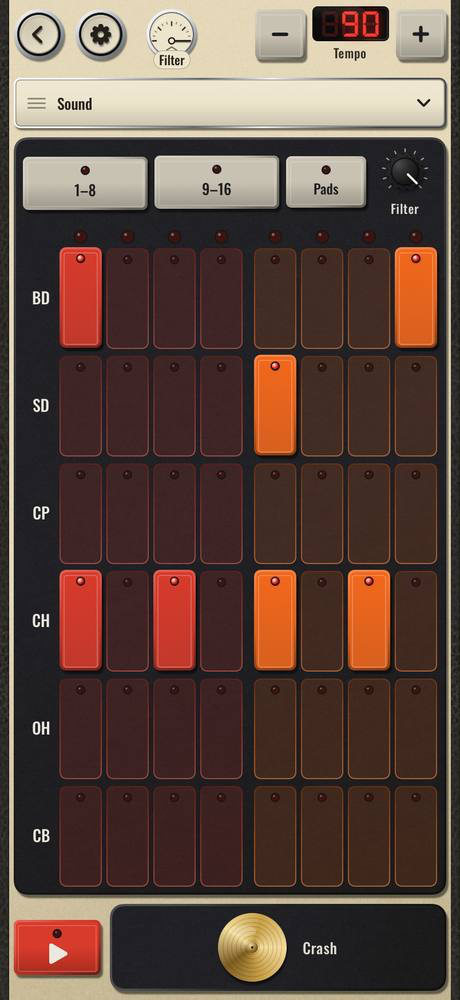
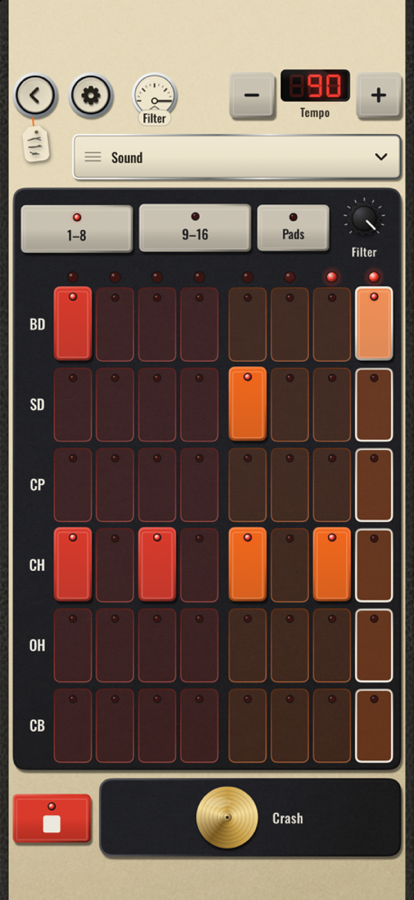
Press kits: 16 apps, winter 2026-27 nominations

diff --git a/halloweenporch/index.html b/halloweenporch/index.html
@@ -1,1 +1,79 @@
-<!doctype html><html lang="en"><head><meta charset="utf-8"><meta name="viewport" content="width=device-width, initial-scale=1"><title>Halloween Porch: Haunt Map press kit</title></head><body style="font:16px/1.5 -apple-system,system-ui,sans-serif;max-width:720px;margin:48px auto;padding:0 16px"><h1>Halloween Porch: Haunt Map</h1><p>Press kit being prepared. <a href="https://apps.apple.com/app/id6821116172">App Store page</a>.</p></body></html>
+<!doctype html>
+<html lang="en">
+<head>
+<meta charset="utf-8">
+<meta name="viewport" content="width=device-width, initial-scale=1">
+<title>Halloween Porch: Haunt Map press kit</title>
+<meta name="description" content="Halloween Porch: Haunt Map: screenshots, facts and dates for App Store editorial.">
+<style>
+  :root { --bg:#fff; --fg:#1d1d1f; --muted:#6e6e73; --line:#e5e5ea; --accent:#0a66c2; }
+  @media (prefers-color-scheme: dark) { :root { --bg:#111; --fg:#f5f5f7; --muted:#a1a1a6; --line:#2c2c2e; --accent:#64a9f0; } }
+  * { box-sizing:border-box; }
+  body { margin:0; background:var(--bg); color:var(--fg); font:16px/1.5 -apple-system, "SF Pro Text", system-ui, sans-serif; padding:32px 16px 64px; }
+  main { max-width:960px; margin:0 auto; }
+  header { display:flex; gap:20px; align-items:center; margin-bottom:28px; }
+  header img { width:96px; height:96px; border-radius:22px; }
+  h1 { font-size:28px; margin:0 0 4px; }
+  h2 { font-size:18px; margin:36px 0 12px; }
+  p, li { max-width:70ch; }
+  .muted { color:var(--muted); }
+  dl { display:grid; grid-template-columns:max-content 1fr; gap:6px 18px; margin:0; }
+  dt { color:var(--muted); }
+  .shots { display:grid; grid-template-columns:repeat(auto-fill, minmax(180px, 1fr)); gap:14px; }
+  figure { margin:0; }
+  figure img { width:100%; height:auto; border:1px solid var(--line); border-radius:12px; display:block; }
+  figcaption { font-size:13px; color:var(--muted); margin-top:6px; }
+  a { color:var(--accent); }
+  ul { padding-left:20px; }
+  footer { margin-top:48px; font-size:13px; color:var(--muted); }
+</style>
+</head>
+<body>
+<main>
+  <header>
+    <img src="img/icon.png" alt="Halloween Porch: Haunt Map app icon">
+    <div>
+      <h1>Halloween Porch: Haunt Map</h1>
+      <p class="muted">AR ghosts for trick or treat · <a href="https://apps.apple.com/app/id6821116172">App Store</a> · updated 17 October 2026</p>
+    </div>
+  </header>
+
+  <h2>What is new</h2>
+  <p>Version 1.0 is Waiting for Review as of 17 October 2026, so the App Store link returns 404 until release. The app is a map of the lit porches on one street: hosts plot a porch, place up to 4 AR scares, pick a riddle or bat hunt and set a secret treat word; visitors follow a compass and a heartbeat haptic to the steps and earn a stamp. Porch pins are deleted after 2 November.</p>
+
+  <h2>Facts</h2>
+  <dl>
+    <dt>Version</dt><dd>1.0 (build 2), built with Xcode 27.0</dd>
+    <dt>Platforms</dt><dd>iPhone, iPad</dd>
+    <dt>Languages</dt><dd>5: English (US, UK, AU, CA) and Spanish (Mexico)</dd>
+    <dt>Price</dt><dd>Free, no ads</dd>
+    <dt>Privacy</dt><dd>No tracking, no third-party SDK. Visiting needs no account; hosting needs iCloud. Stamps are stored on the phone. Porch pins are visible only to people with the community code and are deleted after 2 November.</dd>
+    <dt>Accessibility</dt><dd>Reduce Motion skips the torch flicker and the jump scare; the map legend does not rely on colour alone and hides at accessibility text sizes; VoiceOver labels and Dynamic Type are used across the screens.</dd>
+    <dt>Window</dt><dd>Halloween, 22 October to 1 November 2026</dd>
+    <dt>Developer</dt><dd>One developer in Dubai</dd>
+  </dl>
+
+  <h2>Screens</h2>
+  <p class="muted">Simulator captures of the screens described in the nomination, on the app's sample street (Hollow Lane, join code HAUNT7). The AR view is a simulator stand-in: the camera scene and the ghost are drawn in software, not a camera feed. No marketing frames.</p>
+  <div class="shots">
+    <figure><img src="img/01.png" alt="Map of Hollow Lane with porch pins and a list of five lit porches, each with its distance and scare level"><figcaption>The visitor map on the sample street: five lit porches with distance and scare level (Little pumpkins) shown before anyone walks. Simulator capture, simulated location.</figcaption></figure>
+    <figure><img src="img/02.png" alt="Tonight screen with three porch light choices, On, Low on candy and Off, a stamp counter and a Siri suggestion"><figcaption>Host's Tonight screen: porch light On, Low on candy or Off, stamps given tonight, and the Siri phrase. Simulator capture; the sample porch is set to Off here.</figcaption></figure>
+    <figure><img src="img/03.png" alt="Walk screen showing 15 m to The Hollow Pumpkin, a compass arrow and an I'm at the steps button"><figcaption>Walk screen: distance, compass arrow and the I'm at the steps button. The heartbeat haptic cannot be shown in a still. Simulator capture.</figcaption></figure>
+    <figure><img src="img/04.png" alt="Riddle trick at the porch steps: a ghost in front of a door with four answers, A clock, A scarecrow, A pumpkin, A mummy"><figcaption>The riddle at the steps, four answers. Simulator stand-in for the AR scene; the real view is a live camera with the ghost placed on the host's steps.</figcaption></figure>
+    <figure><img src="img/05.png" alt="Stamp earned screen: stamp number 14, the porch name and the secret word to say at the door, Pumpkin pie"><figcaption>Stamp screen after the trick: the host's secret treat word to say at the door. Sample data. Simulator capture.</figcaption></figure>
+  </div>
+
+  <h2>Why now</h2>
+  <ul>
+    <li><a href="https://www.gurneeil.gov/explore/trick-or-treat.php">Village of Gurnee, Illinois: trick-or-treat Saturday 31 October 2026, 2 to 5pm</a> <span class="muted">Municipal page, read 17 Oct 2026</span></li>
+  </ul>
+
+  <h2>Assets</h2>
+  <ul>
+    <li><a href="img/icon-1024.png">Icon, 1024 px PNG</a></li>
+  </ul>
+
+  <footer>Contact: hemal08ce094@gmail.com · <a href="../">Support and privacy</a></footer>
+</main>
+</body>
+</html>

diff --git a/sideb/index.html b/sideb/index.html
@@ -1,1 +1,79 @@
-<!doctype html><html lang="en"><head><meta charset="utf-8"><meta name="viewport" content="width=device-width, initial-scale=1"><title>Side B: Retro Fold & Play press kit</title></head><body style="font:16px/1.5 -apple-system,system-ui,sans-serif;max-width:720px;margin:48px auto;padding:0 16px"><h1>Side B: Retro Fold & Play</h1><p>Press kit being prepared. <a href="https://apps.apple.com/app/id6818051955">App Store page</a>.</p></body></html>
+<!doctype html>
+<html lang="en">
+<head>
+<meta charset="utf-8">
+<meta name="viewport" content="width=device-width, initial-scale=1">
+<title>Side B: Retro Fold &amp; Play press kit</title>
+<meta name="description" content="Side B: Retro Fold &amp; Play: screenshots, facts and dates for App Store editorial.">
+<style>
+  :root { --bg:#fff; --fg:#1d1d1f; --muted:#6e6e73; --line:#e5e5ea; --accent:#0a66c2; }
+  @media (prefers-color-scheme: dark) { :root { --bg:#111; --fg:#f5f5f7; --muted:#a1a1a6; --line:#2c2c2e; --accent:#64a9f0; } }
+  * { box-sizing:border-box; }
+  body { margin:0; background:var(--bg); color:var(--fg); font:16px/1.5 -apple-system, "SF Pro Text", system-ui, sans-serif; padding:32px 16px 64px; }
+  main { max-width:960px; margin:0 auto; }
+  header { display:flex; gap:20px; align-items:center; margin-bottom:28px; }
+  header img { width:96px; height:96px; border-radius:22px; }
+  h1 { font-size:28px; margin:0 0 4px; }
+  h2 { font-size:18px; margin:36px 0 12px; }
+  p, li { max-width:70ch; }
+  .muted { color:var(--muted); }
+  dl { display:grid; grid-template-columns:max-content 1fr; gap:6px 18px; margin:0; }
+  dt { color:var(--muted); }
+  .shots { display:grid; grid-template-columns:repeat(auto-fill, minmax(180px, 1fr)); gap:14px; }
+  figure { margin:0; }
+  figure img { width:100%; height:auto; border:1px solid var(--line); border-radius:12px; display:block; }
+  figcaption { font-size:13px; color:var(--muted); margin-top:6px; }
+  a { color:var(--accent); }
+  ul { padding-left:20px; }
+  footer { margin-top:48px; font-size:13px; color:var(--muted); }
+</style>
+</head>
+<body>
+<main>
+  <header>
+    <img src="img/icon.png" alt="Side B: Retro Fold &amp; Play app icon">
+    <div>
+      <h1>Side B: Retro Fold &amp; Play</h1>
+      <p class="muted">Vinyl, 80s, Mixtape, Equalizer · <a href="https://apps.apple.com/app/id6818051955">App Store</a> · updated 17 October 2026</p>
+    </div>
+  </header>
+
+  <h2>What is new</h2>
+  <p>Version 1.0 is Waiting for Review as of 17 October 2026 after an earlier submission was rejected in October, so the App Store link returns 404 until approval. This page covers the pocket player, the tape shelf and the tape editor. Apple Music tapes need a subscription; the demo tape and your own audio files do not.</p>
+
+  <h2>Facts</h2>
+  <dl>
+    <dt>Version</dt><dd>1.0 (build 2026100702), built with Xcode 27.0</dd>
+    <dt>Platforms</dt><dd>iPhone, iPad</dd>
+    <dt>Languages</dt><dd>39 store languages, including English (US, UK, AU, CA), Spanish (Spain, Mexico), French (France, Canada), German, Japanese, Korean, Arabic, Hebrew and Hindi</dd>
+    <dt>Price</dt><dd>Free, no ads</dd>
+    <dt>Privacy</dt><dd>No account, no tracking. Tapes are stored on the phone only. Apple Music playback goes through MusicKit and needs a subscription.</dd>
+    <dt>Accessibility</dt><dd>Shell colour swatches carry names and a selected state for VoiceOver; Reduce Motion is handled; 84 accessibility labels in the code.</dd>
+    <dt>Window</dt><dd>Christmas draft 11 December 2026 to 1 January 2027; year-end draft 26 December 2026 to 10 January 2027</dd>
+    <dt>Developer</dt><dd>One developer in the UAE</dd>
+  </dl>
+
+  <h2>Screens</h2>
+  <p class="muted">Simulator captures of the screens described in the nominations, run with an ordinary-iPhone layout and no Apple Music account. The built-in demo tape (four instrumentals made on the device) is loaded; the other tapes on the shelf and in the second editor frame are sample tapes made from the same demo songs by a debug launch argument. No marketing frames.</p>
+  <div class="shots">
+    <figure><img src="img/01.png" alt="Pocket player on an iPhone: an upright demo tape in the door, a play, fast forward, rewind and eject key strip and a small display reading track 006, side A"><figcaption>The pocket player, the first screen on an ordinary iPhone, with the demo tape loaded and the key strip: play, FF, Rew, Eject. Simulator capture.</figcaption></figure>
+    <figure><img src="img/02.png" alt="Tape shelf sheet with four cassettes: the demo tape, Summer '86, Night drive and Saturday mix, each with its length and track count"><figcaption>The tape shelf: the demo tape plus three sample tapes, each with its cassette length and track count. Simulator capture, sample tapes.</figcaption></figure>
+    <figure><img src="img/03.png" alt="Tape editor with a red cassette titled Summer '86, a subtitle field, a Suggest a title row and shell colour swatches"><figcaption>The tape editor: title, subtitle, Suggest a title, shell colours and label art. Sample tape. Simulator capture.</figcaption></figure>
+    <figure><img src="img/04.png" alt="Tape editor on the demo tape with a smoke shell selected and no label art"><figcaption>The same editor on the demo tape, smoke shell, no label art. Simulator capture.</figcaption></figure>
+  </div>
+
+  <h2>Why now</h2>
+  <ul>
+    <li><a href="https://www.officialcharts.com/chart-news/best-selling-cassettes-singles-albums-2025">UK cassette sales were 164,000 units in 2025, up 53% on 2024</a> <span class="muted">The Official Charts Company, 7 Jan 2026</span></li>
+    <li><a href="https://www.opm.gov/policy-data-oversight/pay-leave/federal-holidays/">New Year's Day 2027 is Friday, 1 January 2027</a> <span class="muted">US Office of Personnel Management, read 17 Oct 2026</span></li>
+  </ul>
+
+  <h2>Assets</h2>
+  <ul>
+    <li><a href="img/icon-1024.png">Icon, 1024 px PNG</a></li>
+  </ul>
+
+  <footer>Contact: hemal08ce094@gmail.com · <a href="../">Support and privacy</a></footer>
+</main>
+</body>
+</html>

diff --git a/mygratuity/index.html b/mygratuity/index.html
@@ -1,1 +1,73 @@
-<!doctype html><html lang="en"><head><meta charset="utf-8"><meta name="viewport" content="width=device-width, initial-scale=1"><title>Dubai Gratuity Calculator press kit</title></head><body style="font:16px/1.5 -apple-system,system-ui,sans-serif;max-width:720px;margin:48px auto;padding:0 16px"><h1>Dubai Gratuity Calculator</h1><p>Press kit being prepared. <a href="https://apps.apple.com/app/id1598788269">App Store page</a>.</p></body></html>
+<!doctype html>
+<html lang="en">
+<head>
+<meta charset="utf-8">
+<meta name="viewport" content="width=device-width, initial-scale=1">
+<title>Dubai Gratuity Calculator press kit</title>
+<meta name="description" content="Dubai Gratuity Calculator: screenshots, facts and dates for App Store editorial.">
+<style>
+  :root { --bg:#fff; --fg:#1d1d1f; --muted:#6e6e73; --line:#e5e5ea; --accent:#0a66c2; }
+  @media (prefers-color-scheme: dark) { :root { --bg:#111; --fg:#f5f5f7; --muted:#a1a1a6; --line:#2c2c2e; --accent:#64a9f0; } }
+  * { box-sizing:border-box; }
+  body { margin:0; background:var(--bg); color:var(--fg); font:16px/1.5 -apple-system, "SF Pro Text", system-ui, sans-serif; padding:32px 16px 64px; }
+  main { max-width:960px; margin:0 auto; }
+  header { display:flex; gap:20px; align-items:center; margin-bottom:28px; }
+  header img { width:96px; height:96px; border-radius:22px; }
+  h1 { font-size:28px; margin:0 0 4px; }
+  h2 { font-size:18px; margin:36px 0 12px; }
+  p, li { max-width:70ch; }
+  .muted { color:var(--muted); }
+  dl { display:grid; grid-template-columns:max-content 1fr; gap:6px 18px; margin:0; }
+  dt { color:var(--muted); }
+  .shots { display:grid; grid-template-columns:repeat(auto-fill, minmax(180px, 1fr)); gap:14px; }
+  figure { margin:0; }
+  figure img { width:100%; height:auto; border:1px solid var(--line); border-radius:12px; display:block; }
+  figcaption { font-size:13px; color:var(--muted); margin-top:6px; }
+  a { color:var(--accent); }
+  ul { padding-left:20px; }
+  footer { margin-top:48px; font-size:13px; color:var(--muted); }
+</style>
+</head>
+<body>
+<main>
+  <header>
+    <img src="img/icon.png" alt="Dubai Gratuity Calculator app icon">
+    <div>
+      <h1>Dubai Gratuity Calculator</h1>
+      <p class="muted">End of service gratuity under UAE Decree-Law 33 of 2021 · <a href="https://apps.apple.com/app/id1598788269">App Store</a> · updated 17 October 2026</p>
+    </div>
+  </header>
+
+  <h2>What is new</h2>
+  <p>Refreshed App Store listing with new screenshots and rewritten text, built with Xcode 27.1, on top of the iPhone Duo tabletop and book layouts added earlier. The calculator takes a start date, a last working day, a basic monthly salary in AED and unpaid leave days, and shows the estimate with the 21-day tier for the first five years and the 30-day tier after. A How It Works screen explains eligibility, the two-year cap and Article 51. Nominations are submitted for 28 October 2026 to 12 February 2027.</p>
+
+  <h2>Facts</h2>
+  <dl>
+    <dt>Version</dt><dd>2.3.1 (build 2026101402 (live); 2.4 is waiting for review), built with Xcode 27.1</dd>
+    <dt>Platforms</dt><dd>iPhone, iPad, iPhone Duo, Mac (Mac version 1.1)</dd>
+    <dt>Languages</dt><dd>English (US, UK, Australia, Canada), Spanish, Spanish (Mexico)</dd>
+    <dt>Privacy</dt><dd>Salary and dates are entered in the app and used for the calculation on the device.</dd>
+    <dt>Accessibility</dt><dd>VoiceOver labels on the info, copy and share buttons; Reduce Motion respected on iPhone Duo layouts. Dynamic Type not audited.</dd>
+    <dt>Window</dt><dd>Windows run between 28 October 2026 and 12 February 2027 across the submitted nominations.</dd>
+    <dt>Developer</dt><dd>Hemal Modi</dd>
+  </dl>
+
+  <h2>Screens</h2>
+  <p class="muted">Device captures of the screens described in the nomination. No marketing frames.</p>
+  <div class="shots">
+    <figure><img src="img/01.png" alt="Calculator with a basic salary of AED 18,500, a start date of 15 March 2020 and a last working day of 31 October 2026, showing an estimate of AED 93,657.42 and the breakdown."><figcaption>Calculator with a worked example: AED 18,500 basic salary, 15 Mar 2020 to 31 Oct 2026. Estimate, 21-day and 30-day tiers in the breakdown. Simulator capture, iPhone 17 Pro, light mode.</figcaption></figure>
+    <figure><img src="img/02.png" alt="How It Works sheet in light mode with the Pro unlock row, then Who is eligible, How it is calculated and The two-year cap."><figcaption>How It Works: eligibility, the 21-day and 30-day rule, the daily wage formula and the two-year cap. Simulator capture, light mode. The Pro Unlock row at the top comes from the 2.4 code on the main branch and is not in live 2.3.</figcaption></figure>
+    <figure><img src="img/03.png" alt="The same worked example in dark mode."><figcaption>The same worked example in dark mode. Simulator capture. Taken from the 2.4 branch with Pro forced on by a debug launch argument, so the breakdown shows in full as it does in live 2.3.</figcaption></figure>
+    <figure><img src="img/04.png" alt="How It Works sheet in dark mode with Pro unlocked."><figcaption>How It Works in dark mode, Pro unlocked (debug launch argument). Simulator capture.</figcaption></figure>
+  </div>
+
+
+  <h2>Assets</h2>
+  <ul>
+    <li><a href="img/icon-1024.png">Icon, 1024 px PNG</a></li>
+  </ul>
+
+  <footer>Contact: Hemal Modi, through the Support page · <a href="../">Support and privacy</a></footer>
+</main>
+</body>
+</html>

diff --git a/gratuityuae/index.html b/gratuityuae/index.html
@@ -1,1 +1,73 @@
-<!doctype html><html lang="en"><head><meta charset="utf-8"><meta name="viewport" content="width=device-width, initial-scale=1"><title>Gratuity Calculator: UAE press kit</title></head><body style="font:16px/1.5 -apple-system,system-ui,sans-serif;max-width:720px;margin:48px auto;padding:0 16px"><h1>Gratuity Calculator: UAE</h1><p>Press kit being prepared. <a href="https://apps.apple.com/app/id6751781510">App Store page</a>.</p></body></html>
+<!doctype html>
+<html lang="en">
+<head>
+<meta charset="utf-8">
+<meta name="viewport" content="width=device-width, initial-scale=1">
+<title>Gratuity Calculator: UAE press kit</title>
+<meta name="description" content="Gratuity Calculator: UAE: screenshots, facts and dates for App Store editorial.">
+<style>
+  :root { --bg:#fff; --fg:#1d1d1f; --muted:#6e6e73; --line:#e5e5ea; --accent:#0a66c2; }
+  @media (prefers-color-scheme: dark) { :root { --bg:#111; --fg:#f5f5f7; --muted:#a1a1a6; --line:#2c2c2e; --accent:#64a9f0; } }
+  * { box-sizing:border-box; }
+  body { margin:0; background:var(--bg); color:var(--fg); font:16px/1.5 -apple-system, "SF Pro Text", system-ui, sans-serif; padding:32px 16px 64px; }
+  main { max-width:960px; margin:0 auto; }
+  header { display:flex; gap:20px; align-items:center; margin-bottom:28px; }
+  header img { width:96px; height:96px; border-radius:22px; }
+  h1 { font-size:28px; margin:0 0 4px; }
+  h2 { font-size:18px; margin:36px 0 12px; }
+  p, li { max-width:70ch; }
+  .muted { color:var(--muted); }
+  dl { display:grid; grid-template-columns:max-content 1fr; gap:6px 18px; margin:0; }
+  dt { color:var(--muted); }
+  .shots { display:grid; grid-template-columns:repeat(auto-fill, minmax(180px, 1fr)); gap:14px; }
+  figure { margin:0; }
+  figure img { width:100%; height:auto; border:1px solid var(--line); border-radius:12px; display:block; }
+  figcaption { font-size:13px; color:var(--muted); margin-top:6px; }
+  a { color:var(--accent); }
+  ul { padding-left:20px; }
+  footer { margin-top:48px; font-size:13px; color:var(--muted); }
+</style>
+</head>
+<body>
+<main>
+  <header>
+    <img src="img/icon.png" alt="Gratuity Calculator: UAE app icon">
+    <div>
+      <h1>Gratuity Calculator: UAE</h1>
+      <p class="muted">End of service gratuity, Tracker and Siri · <a href="https://apps.apple.com/app/id6751781510">App Store</a> · updated 17 October 2026</p>
+    </div>
+  </header>
+
+  <h2>What is new</h2>
+  <p>Refreshed App Store page with new screenshots. The Calculator tab breaks the result into the 21-day and 30-day tiers and the two-year cap, with the working shown step by step, a History list and a share button. The Tracker tab holds a saved job and shows the gratuity earned so far, the next milestone with its date and amount, and a growth chart for 5 years, 10 years or to the cap. Siri and Shortcuts answer how much gratuity has been earned. iPhone Duo layouts open like a ledger or stand in tabletop pose.</p>
+
+  <h2>Facts</h2>
+  <dl>
+    <dt>Version</dt><dd>1.4.2 (build 2026101502, resubmitted 15 October 2026), built with Xcode 27.1</dd>
+    <dt>Platforms</dt><dd>iPhone, iPad, iPhone Duo</dd>
+    <dt>Languages</dt><dd>English (US, UK, Australia, Canada), Spanish (Mexico)</dd>
+    <dt>Privacy</dt><dd>The app says your job details stay on this device.</dd>
+    <dt>Accessibility</dt><dd>Accessibility labels and identifiers on the main controls; not audited further.</dd>
+    <dt>Window</dt><dd>Submitted nominations run from 28 October 2026 into the new year; the contract-renewal one covers 16 November to 31 December.</dd>
+    <dt>Developer</dt><dd>Hemal Modi</dd>
+  </dl>
+
+  <h2>Screens</h2>
+  <p class="muted">Device captures of the screens described in the nomination. No marketing frames.</p>
+  <div class="shots">
+    <figure><img src="img/01.png" alt="Calculator tab with a start date, a last working day and a basic salary of AED 18,500."><figcaption>Calculator tab with a worked example: AED 18,500 basic salary, 6.5 years of service. Simulator capture, iPhone 17, light mode.</figcaption></figure>
+    <figure><img src="img/02.png" alt="Result sheet showing AED 92,576.03 for 6 years 6 months with the step-by-step working."><figcaption>Result sheet: the estimate, the details entered and the working, step by step. Simulator capture.</figcaption></figure>
+    <figure><img src="img/03.png" alt="Tracker tab showing AED 59,428 earned so far, the next milestone and the growth chart."><figcaption>Tracker with a sample saved job (Senior Accountant, 4 years 7 months, AED 18,500): earned so far, next milestone and growth chart. Simulator capture.</figcaption></figure>
+    <figure><img src="img/04.png" alt="Tracker tab in dark mode."><figcaption>Tracker in dark mode. Simulator capture. Captures come from the main branch (1.5 code) with Pro forced on by a debug launch argument. The Siri and Shortcuts screens are not captured here: they run in the system, not in the app.</figcaption></figure>
+  </div>
+
+
+  <h2>Assets</h2>
+  <ul>
+    <li><a href="img/icon-1024.png">Icon, 1024 px PNG</a></li>
+  </ul>
+
+  <footer>Contact: Hemal Modi, through the Support page · <a href="../">Support and privacy</a></footer>
+</main>
+</body>
+</html>

diff --git a/hingeband/index.html b/hingeband/index.html
@@ -54,12 +54,12 @@
   </dl>
 
   <h2>Screens</h2>
-  <p class="muted">App renders from the build's own snapshot pass (simulator, phone canvas 402 by 874 points). They are not device photographs and carry no marketing frame. The Chord Harp and Beat Machine renders predate the final wood-and-brass chrome.</p>
+  <p class="muted">Simulator captures of the touch build running on an iPhone 17 Pro (iOS 27.0 simulator), taken by the build's own UI tests and a launch-argument capture. They are not device photographs and carry no marketing frame. The Chord Harp frame was taken with a finger held on the B flat chord button.</p>
   <div class="shots">
-    <figure><img src="img/01.png" alt="Hingeband stage: shelf of instrument cards, Squeezebox, Theremin and Harmonica, with a welcome note"><figcaption>The stage on a phone. Each instrument is a card with one line on how to play it. App render.</figcaption></figure>
-    <figure><img src="img/02.png" alt="Chord Harp: three rows of eight chord buttons from E flat to E and a plate of 13 strings from G2 to G6"><figcaption>Chord Harp: major, minor and seventh rows, eight keys in circle-of-fifths order, 13 strings. App render.</figcaption></figure>
-    <figure><img src="img/03.png" alt="Beat Machine: six drum rows on a step grid, a tempo display at 90, a Crash pad and a Play button"><figcaption>Beat Machine: six voices, steps 1 to 8 shown with a page button for 9 to 16, tempo, Crash pad. App render.</figcaption></figure>
-    <figure><img src="img/04.png" alt="Liner notes card for the Tonewheel Organ with a handwritten Try this line"><figcaption>Liner notes: each instrument has a short story and one handwritten Try this line. App render.</figcaption></figure>
+    <figure><img src="img/01.png" alt="Hingeband stage: shelf of instrument cards, Squeezebox and Theremin, with a handwritten welcome note taped over the shelf"><figcaption>The stage on a phone, with the shopkeeper's welcome note. Simulator capture.</figcaption></figure>
+    <figure><img src="img/02.png" alt="Chord Harp: three rows of eight chord buttons from E flat to E with B flat lit, and a plate of 13 strings from B flat 2 to B flat 6"><figcaption>Chord Harp: major, minor and seventh rows, eight keys in circle-of-fifths order, 13 strings, B flat held. Simulator capture.</figcaption></figure>
+    <figure><img src="img/03.png" alt="Beat Machine: six drum rows on a step grid with lit steps, a tempo display at 90, a Crash pad and a stop button"><figcaption>Beat Machine running its groove: six voices, steps 1 to 8 shown with page buttons for 9 to 16, tempo 90, Crash pad. Simulator capture.</figcaption></figure>
+    <figure><img src="img/04.png" alt="Tape Strings instrument with a shop tag in handwriting reading Play a chord, then pull the speed lever"><figcaption>Each instrument carries a shop tag with one handwritten line (Tape Strings shown). Simulator capture.</figcaption></figure>
   </div>
 
   <h2>Why now</h2>
